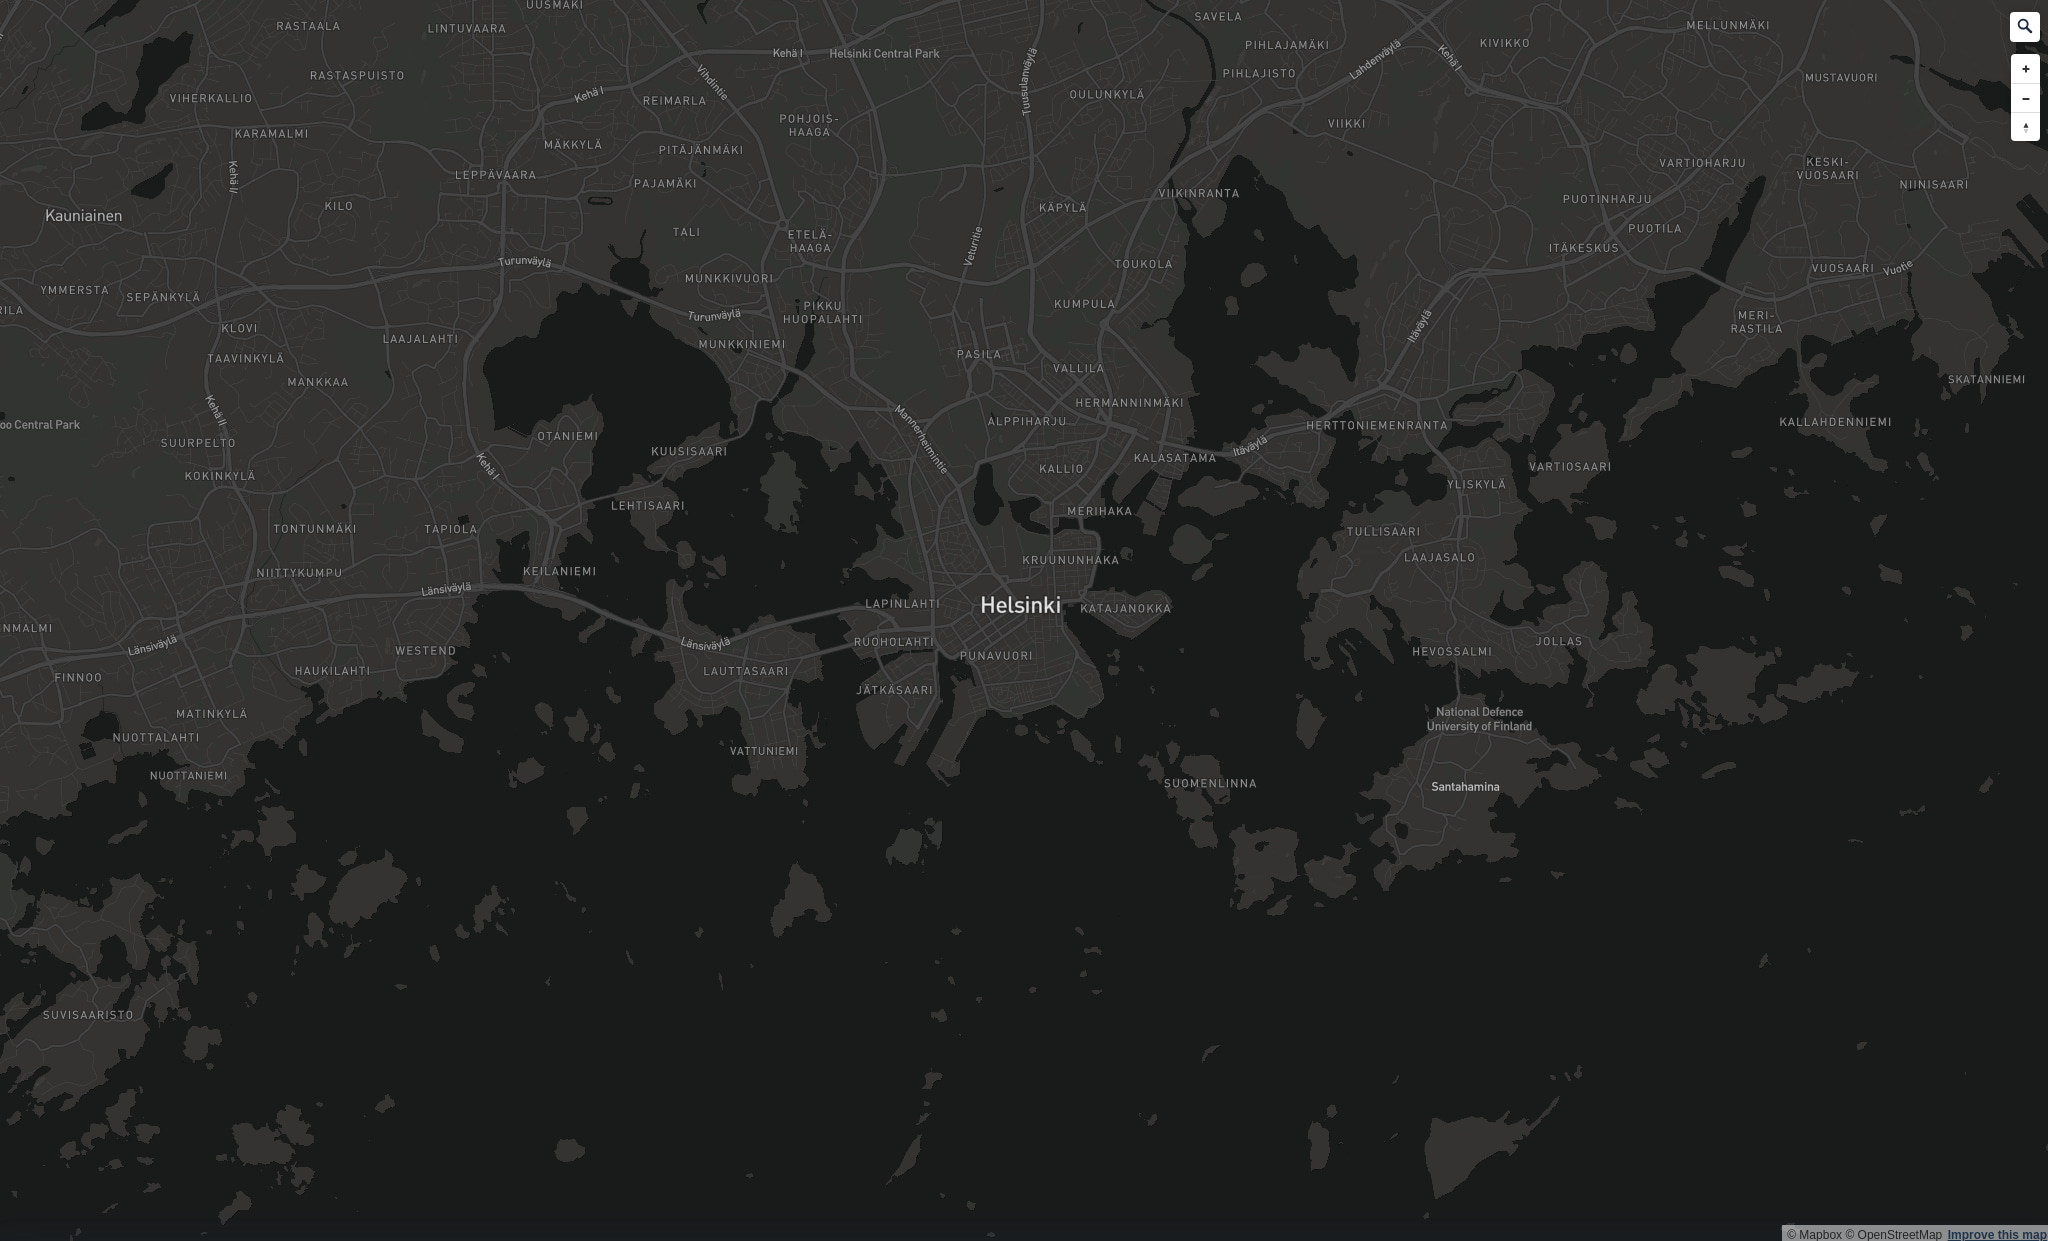
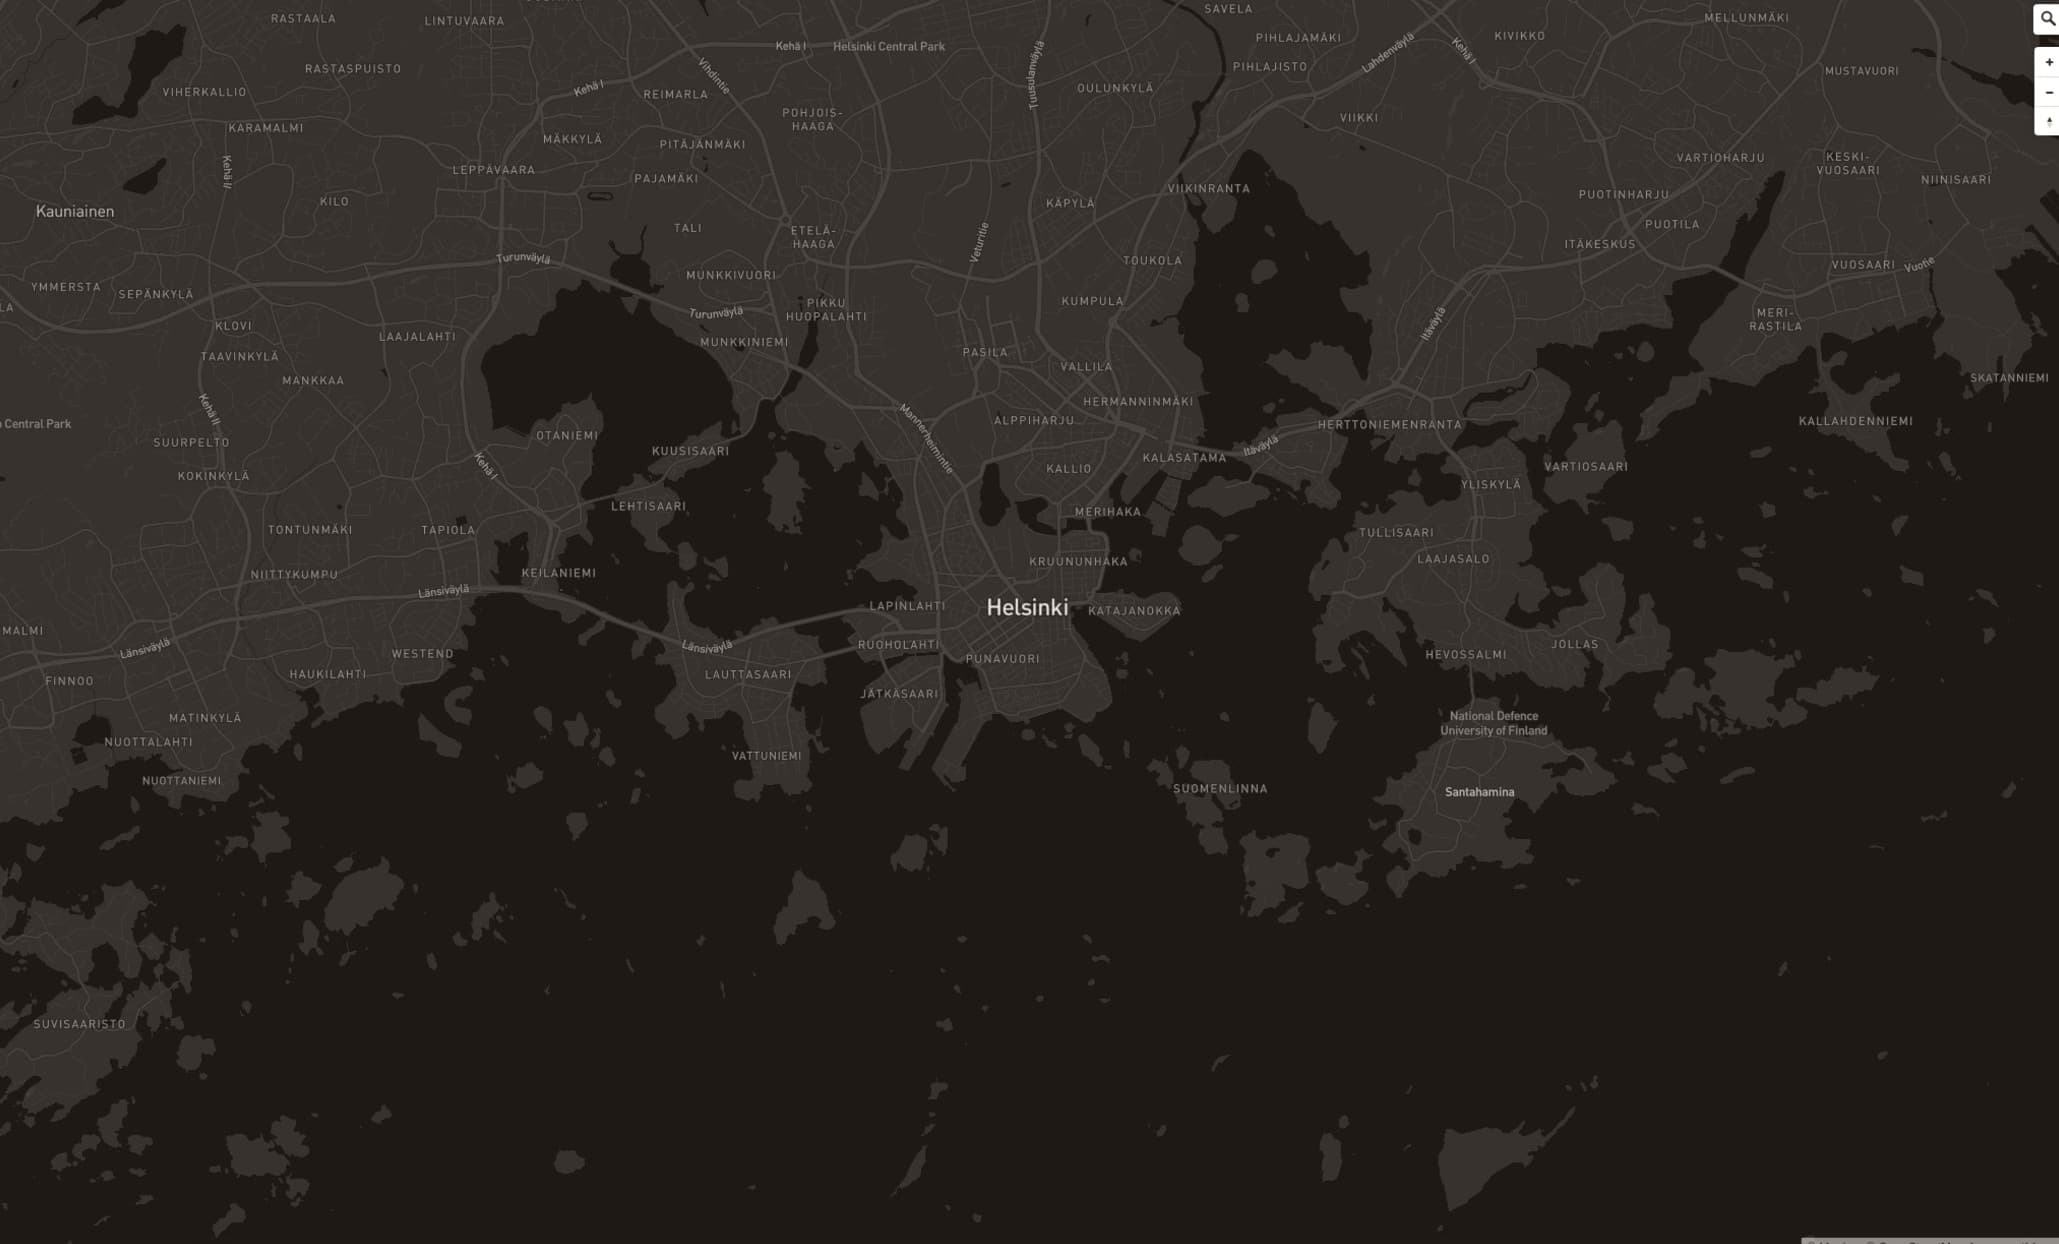
Remove advanced CSS map colorize

diff --git a/src/css/FloatingProfilePicture.css b/src/css/FloatingProfilePicture.css
@@ -125,13 +125,6 @@
   transform: rotateX(62deg) rotateZ(-30deg) translate3d(0px, 0px, -8px);
 }
 
-.floating-map-container .colorizer {
-  @apply absolute w-full h-full;
-  background: #56514c;
-  mix-blend-mode: color;
-  z-index: 10;
-}
-
 .floating-map-container img {
   max-width: initial; /* this needs to be overridden from tailwind defaults */
   height: auto;

diff --git a/src/components/FloatingProfilePicture.tsx b/src/components/FloatingProfilePicture.tsx
@@ -98,7 +98,6 @@ export const FloatingProfilePicture = (props: Props) => {
 
         <div className="floating-map-container">
           <img alt="Map of Helsinki" src="/map-light.jpg" />
-          <div className="colorizer" />
         </div>
       </div>
     </div>
